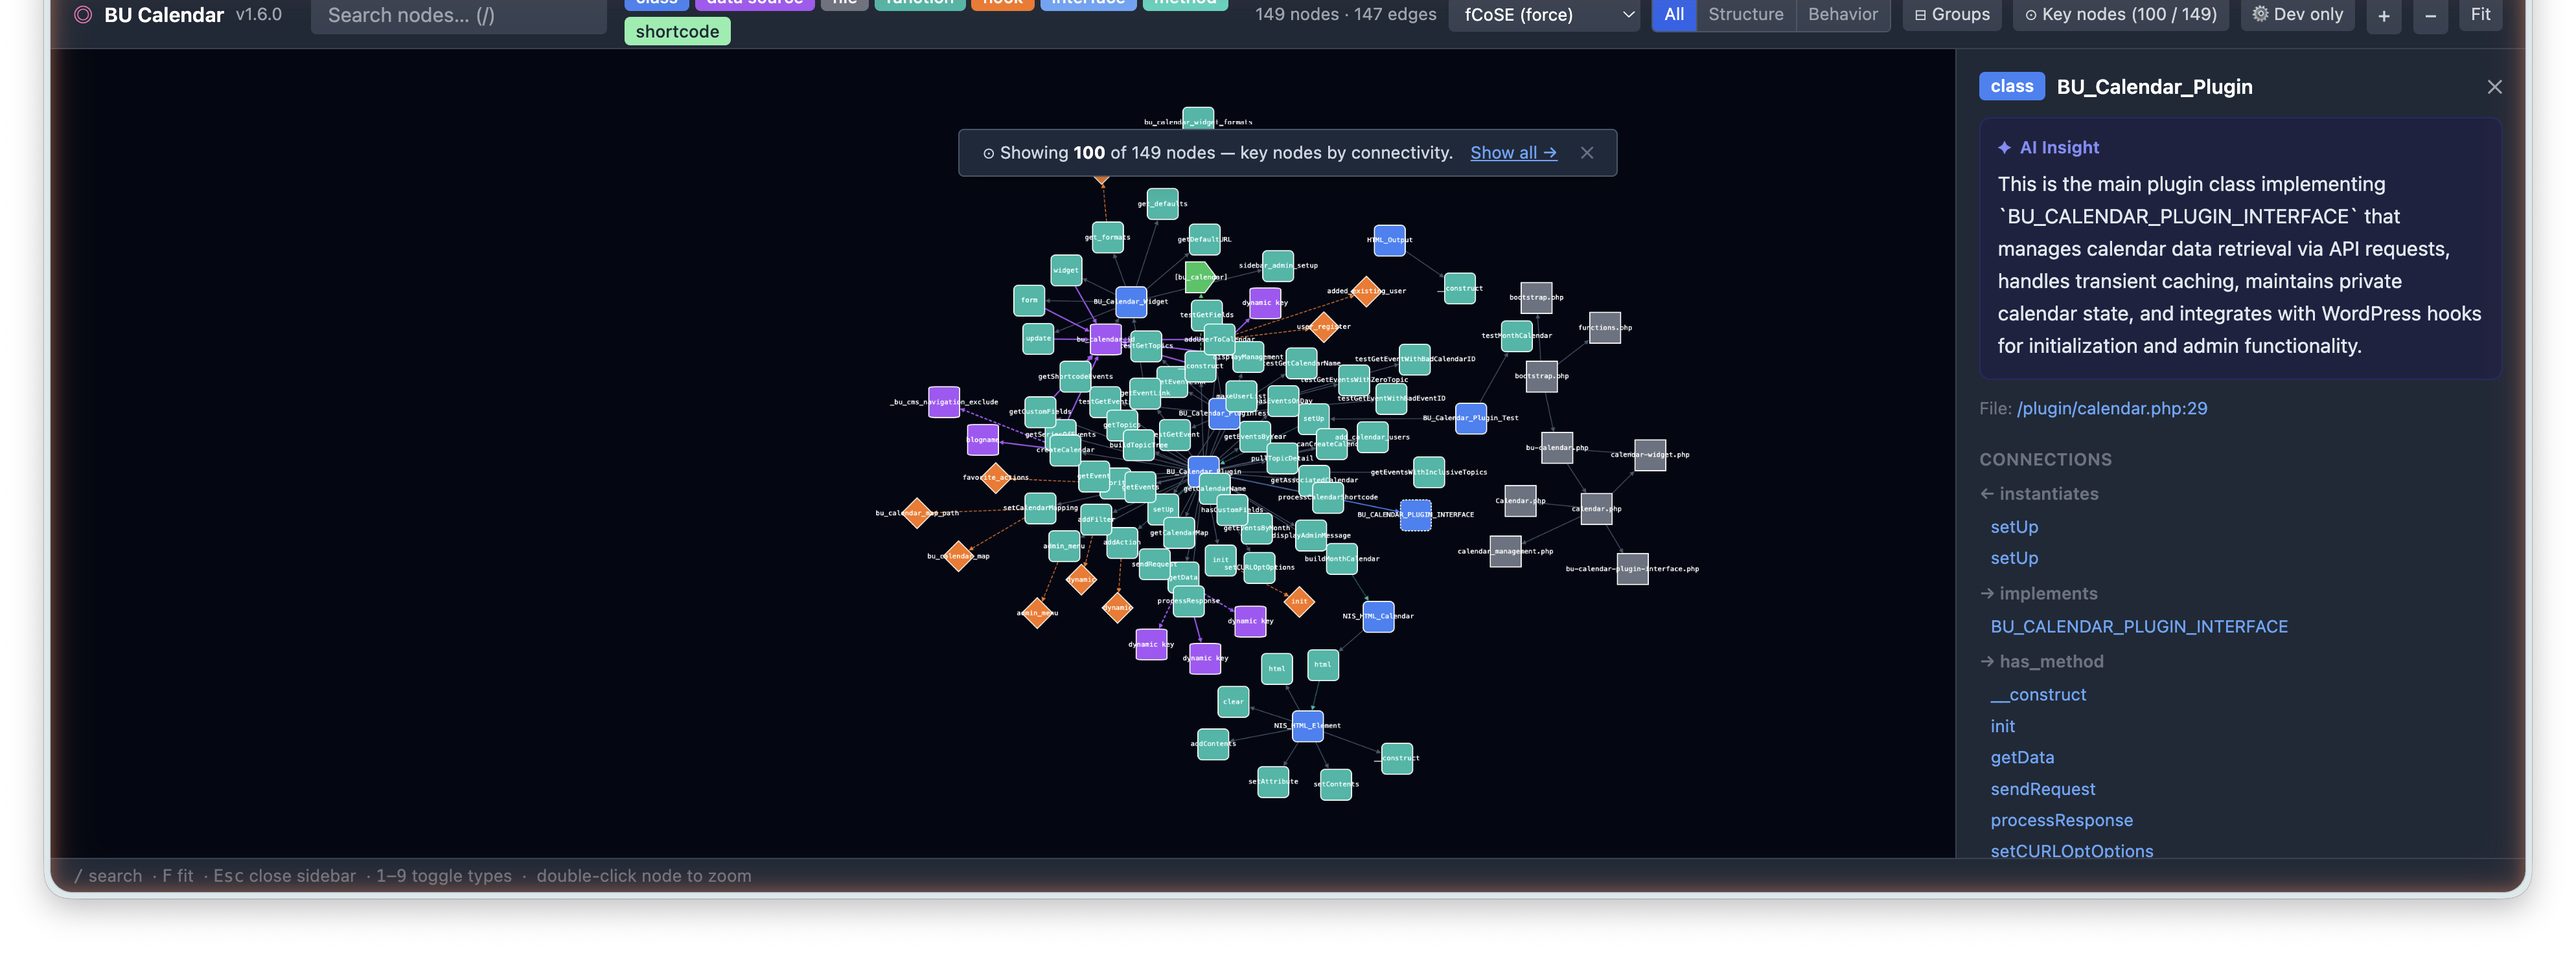
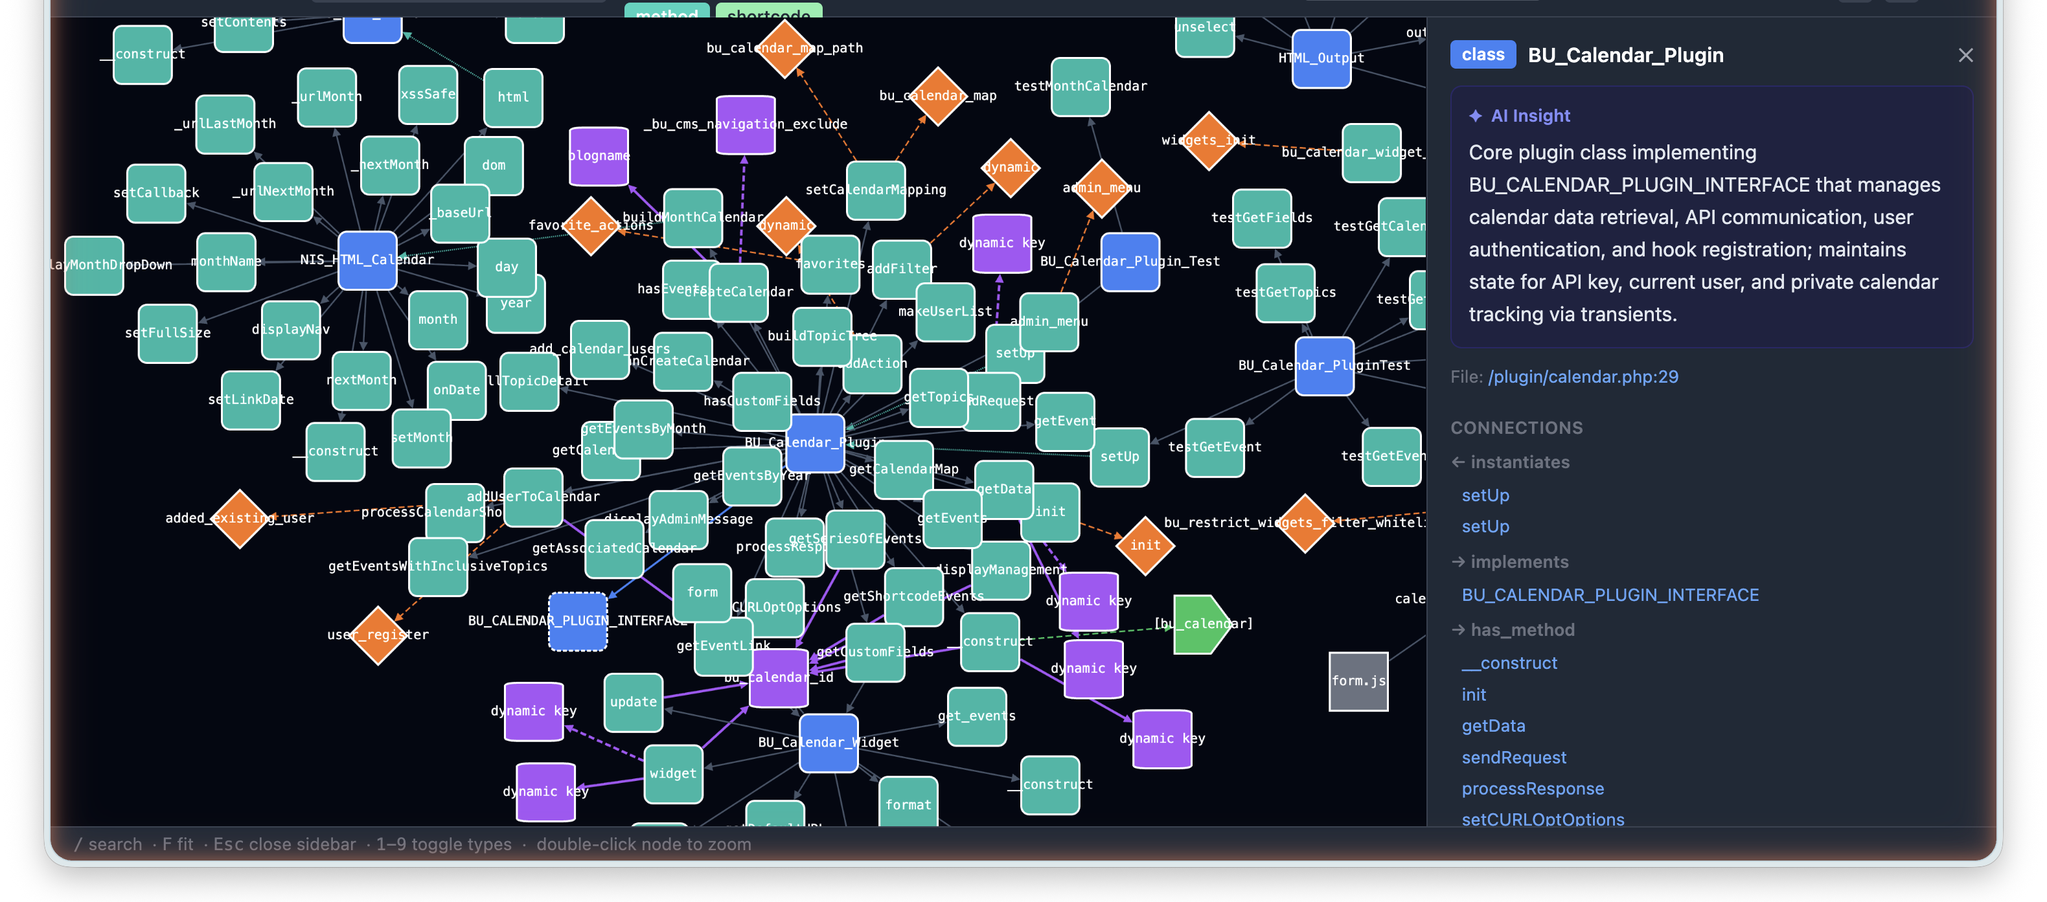
fix: improve library detection — vendor subdirs, JS filename prefixes, React scaffolds, PHP libs
- Remove lib/ and libs/ from LIBRARY_SEGMENTS (too broad — catches developer utility classes)
- Add vendor/ as a path segment (catches js/vendor/, assets/vendor/ etc.)
- Add JS filename-prefix detection: jquery, bootstrap, backbone, lodash, moment, react, and more
- Add React scaffold exact-filename detection: reportWebVitals, setupTests, serviceWorker, etc.
- Add known PHP library filename detection: class.phpmailer, simplepie, PasswordHash, etc.
- 4 new tests; 218 total passing
- Update README Dev only section with screenshot and revised detection description
- Add docs/images/dev-only.png (before/after comparison)
- Retake docs/images/node-detail.png (now shows correct graph + AI Insight sidebar)

diff --git a/analyzer/src/Graph/GraphBuilder.php b/analyzer/src/Graph/GraphBuilder.php
@@ -12,12 +12,68 @@ class GraphBuilder
      * Nodes whose file paths contain one of these segments (as an exact path
      * component, not just a substring) are tagged `isLibrary = true` so the
      * frontend can offer a "developer code only" filter.
+     *
+     * Note: `lib/` and `libs/` are intentionally excluded — they are
+     * commonly used for developer-written utility classes in WordPress plugins.
+     * The top-level `vendor/` directory is already excluded by FileScanner;
+     * this `vendor` entry catches sub-directories like `js/vendor/` or
+     * `assets/vendor/` that contain bundled third-party JS.
      */
     private const LIBRARY_SEGMENTS = [
-        'lib', 'libs',
+        'vendor',
         'third-party', 'thirdparty',
         'bower_components',
         'external', 'externals',
+    ];
+
+    /**
+     * Filename prefixes (case-insensitive, dot or hyphen delimited) that
+     * indicate a well-known JS library bundled directly in the plugin.
+     * Matched against the basename without extension.
+     * Examples: jquery.js, jquery-3.6.0.js, jquery.validate.js,
+     *           backbone.js, underscore.js, lodash.js, bootstrap.js.
+     */
+    private const LIBRARY_FILENAME_PREFIXES = [
+        // JS framework / utility libraries
+        'jquery', 'backbone', 'underscore', 'lodash',
+        'bootstrap', 'popper',
+        'moment', 'flatpickr', 'pikaday',
+        'select2', 'chosen',
+        'd3', 'chart', 'highcharts',
+        'slick', 'swiper',
+        'tinymce', 'codemirror',
+        'requirejs', 'almond',
+        // React / webpack runtime chunks
+        'react', 'react-dom', 'runtime',
+    ];
+
+    /**
+     * Exact filename stems (case-insensitive, extension stripped) that are
+     * known scaffold boilerplate or framework runtime files — not developer
+     * business logic. Applied to JS files only.
+     */
+    private const SCAFFOLD_FILENAMES = [
+        // Create React App boilerplate
+        'reportwebvitals', 'setupTests', 'setuptests', 'setupproxy',
+        'serviceworker', 'registerserviceworker',
+        // Common CRA / Vite / webpack entry boilerplate
+        'craco.config', 'vite.config', 'webpack.config',
+        'babel.config', 'jest.config', 'postcss.config',
+    ];
+
+    /**
+     * Exact filename stems (case-insensitive) for well-known bundled PHP
+     * libraries that appear verbatim inside plugin directories.
+     */
+    private const LIBRARY_PHP_FILENAMES = [
+        'class.phpmailer', 'class.smtp', 'class.pop3',     // PHPMailer v5
+        'phpmailer',                                        // PHPMailer v6+
+        'passwordhash', 'class-phpass',                    // phpass
+        'simplepie',                                        // SimplePie RSS
+        'markdown', 'markdownextra',                       // Markdown parsers
+        'mustache',                                         // Mustache.php
+        'idiorm', 'paris',                                  // ORM libs
+        'requests',                                         // Requests for PHP
     ];
 
     /**
@@ -66,21 +122,48 @@ class GraphBuilder
     }
 
     /**
-     * Return true when any non-filename path segment matches a known library
-     * directory name (exact, case-insensitive comparison).
+     * Return true when the file is from a bundled third-party library or
+     * scaffold boilerplate rather than developer business logic.
+     *
+     * Four signals are checked (any one is sufficient):
+     *  1. A directory segment matches LIBRARY_SEGMENTS (vendor/, third-party/, …).
+     *  2. A JS filename stem starts with a known library prefix (LIBRARY_FILENAME_PREFIXES).
+     *  3. A JS filename stem exactly matches a known scaffold file (SCAFFOLD_FILENAMES).
+     *  4. A PHP filename stem exactly matches a known bundled PHP library (LIBRARY_PHP_FILENAMES).
      */
     private function isLibraryFile(string $filePath): bool
     {
         $normalized = str_replace(['\\', DIRECTORY_SEPARATOR], '/', $filePath);
         $parts      = explode('/', $normalized);
 
-        // Exclude the last element (filename) — only test directory segments
+        // 1. Directory-segment check (excludes the filename itself)
         $dirs = array_slice($parts, 0, count($parts) - 1);
-
         foreach ($dirs as $segment) {
             if (in_array(strtolower($segment), self::LIBRARY_SEGMENTS, true)) {
                 return true;
             }
+        }
+
+        $filename = strtolower(end($parts));
+        $stem     = strtolower((string) pathinfo($filename, PATHINFO_FILENAME));
+
+        // 2 & 3. JS-specific filename checks
+        if (str_ends_with($filename, '.js')) {
+            // 2. Prefix match (jquery.js, jquery-3.6.0.js, bootstrap.bundle.js, …)
+            foreach (self::LIBRARY_FILENAME_PREFIXES as $prefix) {
+                if ($stem === $prefix || str_starts_with($stem, $prefix . '-') || str_starts_with($stem, $prefix . '.')) {
+                    return true;
+                }
+            }
+            // 3. Exact scaffold filename (reportWebVitals.js, setupTests.js, …)
+            if (in_array($stem, self::SCAFFOLD_FILENAMES, true)) {
+                return true;
+            }
+        }
+
+        // 4. PHP known-library filename check
+        if (str_ends_with($filename, '.php') && in_array($stem, self::LIBRARY_PHP_FILENAMES, true)) {
+            return true;
         }
 
         return false;

diff --git a/analyzer/tests/Unit/Graph/GraphBuilderTest.php b/analyzer/tests/Unit/Graph/GraphBuilderTest.php
@@ -128,20 +128,44 @@ class GraphBuilderTest extends TestCase
 
     // ── Library detection ─────────────────────────────────────────────────────
 
-    public function testBuild_NodeInLibDir_IsTaggedIsLibrary(): void
+    public function testBuild_NodeInLibDir_IsNotTaggedIsLibrary(): void
     {
+        // lib/ is commonly used for developer-written utilities in WordPress plugins
         $collection = new EntityCollection();
-        $collection->addNode(Node::make(id: 'a', label: 'A', type: 'class', file: '/plugin/lib/ext.php'));
+        $collection->addNode(Node::make(id: 'a', label: 'A', type: 'class', file: '/plugin/lib/Calendar.php'));
+
+        $graph = $this->builder->build($collection, $this->meta);
+
+        $this->assertFalse($graph->nodes[0]->isLibrary);
+    }
+
+    public function testBuild_NodeInVendorSubdir_IsTaggedIsLibrary(): void
+    {
+        // js/vendor/ and assets/vendor/ are bundled third-party libraries
+        $collection = new EntityCollection();
+        $collection->addNode(Node::make(id: 'a', label: 'A', type: 'class', file: '/plugin/js/vendor/jquery.validate.js'));
 
         $graph = $this->builder->build($collection, $this->meta);
 
         $this->assertTrue($graph->nodes[0]->isLibrary);
     }
 
-    public function testBuild_NodeInLibsSubdir_IsTaggedIsLibrary(): void
+    public function testBuild_JsFileWithLibraryFilenamePrefix_IsTaggedIsLibrary(): void
     {
+        // jquery.js in any directory is detected via the filename prefix list
         $collection = new EntityCollection();
-        $collection->addNode(Node::make(id: 'a', label: 'A', type: 'class', file: '/plugin/includes/libs/jquery.js'));
+        $collection->addNode(Node::make(id: 'a', label: 'A', type: 'class', file: '/plugin/assets/js/jquery.js'));
+
+        $graph = $this->builder->build($collection, $this->meta);
+
+        $this->assertTrue($graph->nodes[0]->isLibrary);
+    }
+
+    public function testBuild_JsFileWithVersionedLibraryFilename_IsTaggedIsLibrary(): void
+    {
+        // jquery-3.6.0.js — versioned library filename
+        $collection = new EntityCollection();
+        $collection->addNode(Node::make(id: 'a', label: 'A', type: 'class', file: '/plugin/assets/jquery-3.6.0.js'));
 
         $graph = $this->builder->build($collection, $this->meta);
 
@@ -177,5 +201,58 @@ class GraphBuilderTest extends TestCase
         $graph = $this->builder->build($collection, $this->meta);
 
         $this->assertFalse($graph->nodes[0]->isLibrary);
+    }
+
+    public function testBuild_PhpFileWithJqueryLikeName_IsNotTaggedIsLibrary(): void
+    {
+        // Filename prefix detection only applies to .js files, not .php
+        $collection = new EntityCollection();
+        $collection->addNode(Node::make(id: 'a', label: 'A', type: 'class', file: '/plugin/src/jquery-helpers.php'));
+
+        $graph = $this->builder->build($collection, $this->meta);
+
+        $this->assertFalse($graph->nodes[0]->isLibrary);
+    }
+
+    public function testBuild_ReactScaffoldFile_IsTaggedIsLibrary(): void
+    {
+        // CRA boilerplate like reportWebVitals.js is scaffold, not developer code
+        $collection = new EntityCollection();
+        $collection->addNode(Node::make(id: 'a', label: 'A', type: 'function', file: '/plugin/src/reportWebVitals.js'));
+
+        $graph = $this->builder->build($collection, $this->meta);
+
+        $this->assertTrue($graph->nodes[0]->isLibrary);
+    }
+
+    public function testBuild_SetupTestsFile_IsTaggedIsLibrary(): void
+    {
+        $collection = new EntityCollection();
+        $collection->addNode(Node::make(id: 'a', label: 'A', type: 'function', file: '/plugin/src/setupTests.js'));
+
+        $graph = $this->builder->build($collection, $this->meta);
+
+        $this->assertTrue($graph->nodes[0]->isLibrary);
+    }
+
+    public function testBuild_PHPMailerFile_IsTaggedIsLibrary(): void
+    {
+        // Bundled PHPMailer — well-known PHP library bundled inside plugins
+        $collection = new EntityCollection();
+        $collection->addNode(Node::make(id: 'a', label: 'A', type: 'class', file: '/plugin/includes/class.phpmailer.php'));
+
+        $graph = $this->builder->build($collection, $this->meta);
+
+        $this->assertTrue($graph->nodes[0]->isLibrary);
+    }
+
+    public function testBuild_ServiceWorkerFile_IsTaggedIsLibrary(): void
+    {
+        $collection = new EntityCollection();
+        $collection->addNode(Node::make(id: 'a', label: 'A', type: 'function', file: '/plugin/public/serviceWorker.js'));
+
+        $graph = $this->builder->build($collection, $this->meta);
+
+        $this->assertTrue($graph->nodes[0]->isLibrary);
     }
 }

diff --git a/README.md b/README.md
@@ -261,20 +261,27 @@ Clicking a node opens a panel showing:
 
 ### Dev only — filtering out bundled libraries
 
-Some plugins ship copies of third-party libraries inside the plugin directory (jQuery UI, Ext JS, Underscore, custom builds, etc.). Without filtering, these can add thousands of nodes that have nothing to do with the plugin you're auditing.
+Some plugins ship copies of third-party libraries inside the plugin directory (jQuery plugins, Backbone, Bootstrap, PHPMailer, React scaffold files, etc.). Without filtering, these nodes add noise that has nothing to do with the plugin you're auditing.
 
 **The "Dev only" button hides all library nodes**, leaving only the code the plugin's author actually wrote.
 
-Library detection is automatic — paths containing any of the following segments are tagged as library code:
+[![Dev only button — off (all nodes) vs on (library nodes hidden). The grey jQuery plugin nodes in the lower-left cluster disappear when Dev only is active.](docs/images/dev-only.png)](docs/images/dev-only.png)
 
-`lib/`, `libs/`, `vendor/` _(non-Composer)_, `third-party/`, `thirdparty/`, `bower_components/`, `packages/`, `dist/`, `build/`, `bundled/`, `dependencies/`, `external/`
+_Top: all nodes including bundled jQuery plugins (grey). Bottom: **Dev only** active — library nodes hidden, developer code only._
+
+Library detection is automatic using three signals (any one is sufficient):
+
+- **Directory segment** — path contains `vendor/` _(non-Composer sub-directory)_, `third-party/`, `thirdparty/`, `bower_components/`, `external/`, `externals/`
+- **Known JS library filename prefix** — `jquery*`, `bootstrap*`, `lodash*`, `backbone*`, `moment*`, `react*`, and [many more](analyzer/src/Graph/GraphBuilder.php)
+- **Known PHP library filename** — `class.phpmailer.php`, `simplepie.php`, `PasswordHash.php`, and others
+- **React/build scaffold filenames** — `reportWebVitals.js`, `setupTests.js`, `serviceWorker.js`, etc.
 
 You can also add a `.profilerignore` file to the plugin root to explicitly exclude any path:
 
 ```
 # .profilerignore
-assets/vendor/
-legacy/ext-js/
+assets/legacy-ext/
+docs/
 ```
 
 > **Tip:** The "Dev only" button only appears in the toolbar when library nodes are actually present in the analysis. For plugins with no bundled code it is hidden automatically.
